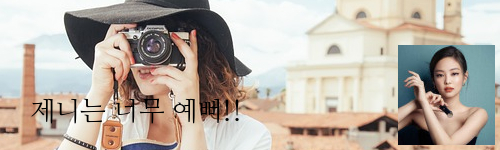
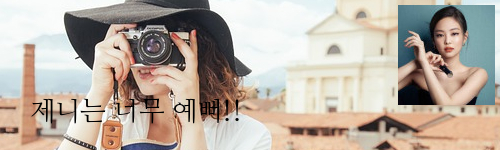
ImageGDS class update

Changed region(s): [[0.78, 0.0267, 0.99, 0.9867]]

diff --git a/classes/image/ImageGDS.class.php b/classes/image/ImageGDS.class.php
@@ -126,8 +126,9 @@ class ImageGDS
 		self::setTTFText($this->im,$this->fontsize,$this->x,$this->y,$fontcolor,$text);
 	}
 
-	# margin_r : 오른쪽 여백, margin_b : 아래여백
-	public function filterWatermarks(string $marksfilename,int $margin_r=10,int $margin_b=10): void
+	# margin_x : 가로 여백, margin_y : 세로 여백
+	# RB : 오른쪽 아래 기분, LB : 왼쪽 아래 기분, LT : 왼쪽 위 기준, RT : 오른쪽 위 기준
+	public function filterWatermarks(string $marksfilename,int $margin_x=10,int $margin_y=10, string $position='RB'): void
 	{
 		if(!file_exists($marksfilename))
 			throw new \Exception(__CLASS__.':'.__METHOD__.':'.$marksfilename);
@@ -138,8 +139,28 @@ class ImageGDS
 
 		$width  = imagesx($image);
 		$height = imagesy($image);
-		$im_x   = imagesx($this->im) - $width - $margin_r;
-		$im_y   = imagesy($this->im) - $height - $margin_b;
+
+		# switch
+		$im_x   = $margin_x;
+		$im_y   = $margin_y;
+		switch ($position){
+			case 'RB' :
+				$im_x   = imagesx($this->im) - $width - $margin_x;
+				$im_y   = imagesy($this->im) - $height - $margin_y;
+				break;
+			case 'LB' :
+				$im_x   = $margin_x;
+				$im_y   = imagesy($this->im) - $height - $margin_y;
+				break;
+			case 'LT' :
+				$im_x   = $margin_x;
+				$im_y   = $margin_y;
+				break;
+			case 'RT' :
+				$im_x   = imagesx($this->im) - $width - $margin_x;
+				$im_y   = $margin_y;
+				break;
+		}
 
 		self::copy($this->im,$image,$im_x,$im_y,0,0,$width,$height);
 	}

diff --git a/test/image_gds.php b/test/image_gds.php
@@ -48,9 +48,13 @@ try{
     Log::d($model->dir.'/gd_cropthumb_120x100.jpg');
 
     # 필터 워터마크 찍기
+    # RB : 오른쪽 아래 기분, LB : 왼쪽 아래 기분, LT : 왼쪽 위 기준, RT : 오른쪽 위 기준
     Log::d('필터 워터마크 찍기');
     $imageGDS = new \Flex\Image\ImageGDS($model->dir.'/gd_crop_500x150_x150_y100.jpg');
-    $imageGDS->filterWatermarks($model->dir.'/thumb90100x100_j.jpeg', 5, 5);
+    // $imageGDS->filterWatermarks($model->dir.'/thumb90100x100_j.jpeg', 5, 5, 'RB');
+    // $imageGDS->filterWatermarks($model->dir.'/thumb90100x100_j.jpeg', 5, 5, 'LB');
+    // $imageGDS->filterWatermarks($model->dir.'/thumb90100x100_j.jpeg', 5, 5, 'LT');
+    $imageGDS->filterWatermarks($model->dir.'/thumb90100x100_j.jpeg', 5, 5, 'RT');
     $imageGDS->write($model->dir.'/gd_watermarks.jpg');
     Log::d($model->dir.'/gd_watermarks.jpg');
 

diff --git a/test/db_my_sqli.php b/test/db_my_sqli.php
@@ -1,0 +1,20 @@
+<?php
+use Flex\App\App;
+use Flex\Log\Log;
+
+$path = dirname(__DIR__);
+require $path. '/config/config.inc.php';
+
+# 기본값 MESSAGE_FILE, log.txt;
+Log::init();
+Log::init(Log::MESSAGE_ECHO);
+
+Log::options([
+    'datetime'   => false, # 날짜시간 출력여부
+    'debug_type' => true, # 디버그 타입 출력여부
+    'newline'    => true  # 개행문자 출력여부
+]);
+
+# db
+$db = new \Flex\Db\DbMySqli();
+?>

diff --git a/config/config.db.php b/config/config.db.php
@@ -2,6 +2,6 @@
 define('_DB_SHA2_ENCRYPT_KEY_','sfsfsfsafsafsfwarfdgjgejgesfsfsafksdfsfsvsvxzvasfddaaerdsadsgd');
 define('_DB_HOST_','localhost');
 define('_DB_USER_','root');
-define('_DB_PASSWD_','root!@#$');
+define('_DB_PASSWD_','d1004');
 define('_DB_NAME_','test_db');
 ?>
